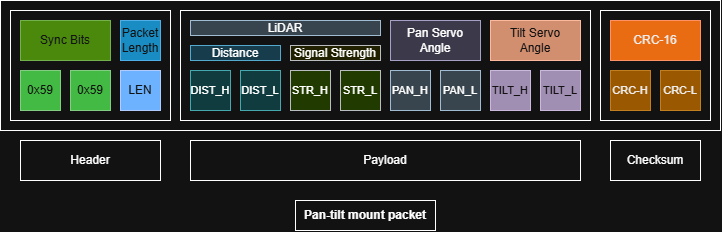
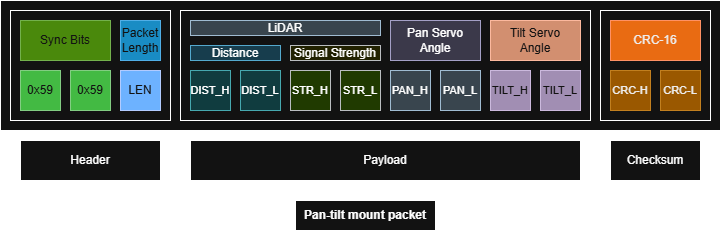
README updates

Changed region(s): [[0.0, 0.5431, 1.0, 1.0]]

diff --git a/README.md b/README.md
@@ -1,12 +1,20 @@
 # Environment Mapper Project
 
+- [Assembly](#assembly)
+- [How it works](#how-it-works)
+
+---
+
 **The ability to scan an environment in 3D can take your project to the next dimension.. Literally.**
 
-Unfortunately, prebuilt LiDAR scanning systems are very cost prohibitive for hobbyists and small teams. That's why we designed a **3D LiDAR environment mapping system** based on an STM32, TFMini LiDAR, and 2 SG90 mini servos.
-This project is designed to be highly portable. Just design a power network as outlined in the `shield` folder, attach the noted hardware (see _Assembly_), upload the STM32 project in `firmware` to your own STM32, and viola!
+Unfortunately, prebuilt LiDAR scanning systems are very cost prohibitive for hobbyists and small teams. That's why we 
+designed a **3D LiDAR environment mapping system** based on an STM32, TFMini LiDAR, and 2 SG90 mini servos.
+This project is designed to be highly portable. Just design a power network as outlined in the `shield` folder, attach the 
+noted hardware (see _Assembly_), upload the STM32 project in `firmware` to your own STM32, and viola!
 You now have a functional 3D environment mapper.
 
-To make this project more interactive, a desktop app is also included in this repo, designed to be a companion to the hardware, translating the points over UART and displaying them in a point cloud right on your computer.
+To make this project more interactive, a desktop app is also included in this repo, designed to be a companion to the 
+hardware, translating the points over UART and displaying them in a point cloud right on your computer.
 Utilizing the lightweight OpenGL C++ framework, this app can achieve a 100Hz refresh rate and a rotatable model using GLM.
 
 ## Assembly
@@ -28,17 +36,74 @@ For the power network and connections, you can either get the equipment below or
 
 ### Optional Components
 
-To improve the power distribution to the servos and LiDAR, we included bulk and local decoupling capacitors. If you want to include these capacitors:
+To improve the power distribution to the servos and LiDAR, we included bulk and local decoupling capacitors.
+If you want to include these capacitors:
 
 - 3 1uF _ceramic_ capacitors (faster transient response)
 - 1 100uF _electrolytic_ capacitor (bigger bulk storage)
 
 ### Putting it all together
 
-To assemble the Environment Mapper pan-tilt mount and lidar circuit, follow the instructions below.
+To assemble the Environment Mapper pan-tilt mount and lidar circuit, reference the schematic below.
 
-<!-- markdownlint-disable-next-line MD033 -->
-<img src="media/env-mapper.png" alt="Environment Mapper Schematic" width="50%" />
+<!-- markdownlint-disable MD033 -->
+<figure>
+  <img src="media/env-mapper.png" alt="Environment Mapper Schematic" width="50%" />
+  <figcaption>Figure 1: Power and UART connections between the MCU and sensor circuitry.</figcaption>
+</figure>
+<!-- markdownlint-enable MD033 -->
+
+<!-- For quick reference, the connections (excluding power and GND) are as follows:
+
+- **LiDAR TX** >  -->
+
+Note that the capacitors are optional. However, it is recommended that an external 5V supply is used to power the 5V rail,
+rather than the STM32's rail, due to the high current demands of the 2 SG90 servos during startup. This can be provided by
+connecting a suitable power supply (for breadboarding
+[this supply](https://www.amazon.com/dp/B0CWFG5LBM?lv=shuf&hvlocphy=106466&linkCode=df0&psc=1&hvnetw=o&hvadid=80195839596071&hvbmt=be&hvlocint=&hvdev=c&hvocijid=17449357714194124364-B0CWFG5LBM-&hvqmt=e&hvexpln=0&tag=bingshoppinga-20&hvtargid=pla-4583795320013176&channelId=69&ref_=asc_df_B0CWFG5LBM&plpRedirect=mhFallback)
+is a good option) to the E5V port on the STM32, or simply using it as the 5V rail.
+
+## How it works
+
+### Hardware
+
+Now that we've covered the assembly of the environment, a short description of its functionality would be in order.
+To begin with the hardware, we used 2 SG90 servos and a Benewake TFMini V2 LiDAR sensor to provide the sensor circuit.
+The servos are controlled with PWM, while the LiDAR is controlled using a UART connection.
+For more information on the controls of either component, please take a look at
+[the code](https://github.com/steelscape02/environment_mapper/tree/main/STM32Project/EnviornmentMapper)
+in the repo.
+
+<!-- Include Hardware Block Diagram -->
+
+### Software
+
+As the pan-tilt mount rotates during operation, the PWM data sent to the servos and the UART data received
+from the LiDAR are assembled on the STM32 board into a UART packet, the structure of which is shown in **Figure 2**,
+for display.
+
+<!-- markdownlint-disable MD033 -->
+<figure>
+  <img src="media/packet_struct.png" alt="Environment Mapper Packet Structure" width="75%" />
+  <figcaption>Figure 2: Environment Mapper UART Packet Structure</figcaption>
+</figure>
+<!-- markdownlint-enable MD033 -->
+
+This 13-byte packet contains all of the information needed to display the points and provide some feedback on reading
+accuracy. Please refer to the table below for what each byte does:
+
+| Byte      |   Type          |                      Description                                                      |
+|-----------|-----------------|---------------------------------------------------------------------------------------|
+| 0x59 (x2) | Sync Bytes      | Helps the program determine the start of a new packet.                                |
+| LEN       | Length          | Tells the program how long of a packet to expect                                      |
+| DIST_H+L  | Distance        | 2-byte distance recorded in LiDAR, in cm                                              |
+| STR_H+L   | Signal Strength | Signal strength in LiDAR, helping to determine reflectivity of the detected object    |
+| PAN_H+L   | Pan Angle       | Pan angle, recorded from the PWM signals sent to the pan servo                        |
+| TILT_H+L  | Tilt Angle      | Tilt angle, recorded from PWM signals sent to the tilt servo                          |
+| CRC_H+L   | CRC-16 Checksum | CRC checksum for the payload. Provides excellent protection against packet corruption |
+
+Once the desktop program has received a packet over UART, it translates the received point into a polar coordinate system,
+using an `(elevation, azimuth, distance)` system. These points are loaded into a LIFO queue, which is then read on a different thread by the graphics utility, which updates the points in near-realtime.
 
 ## Citations
 
